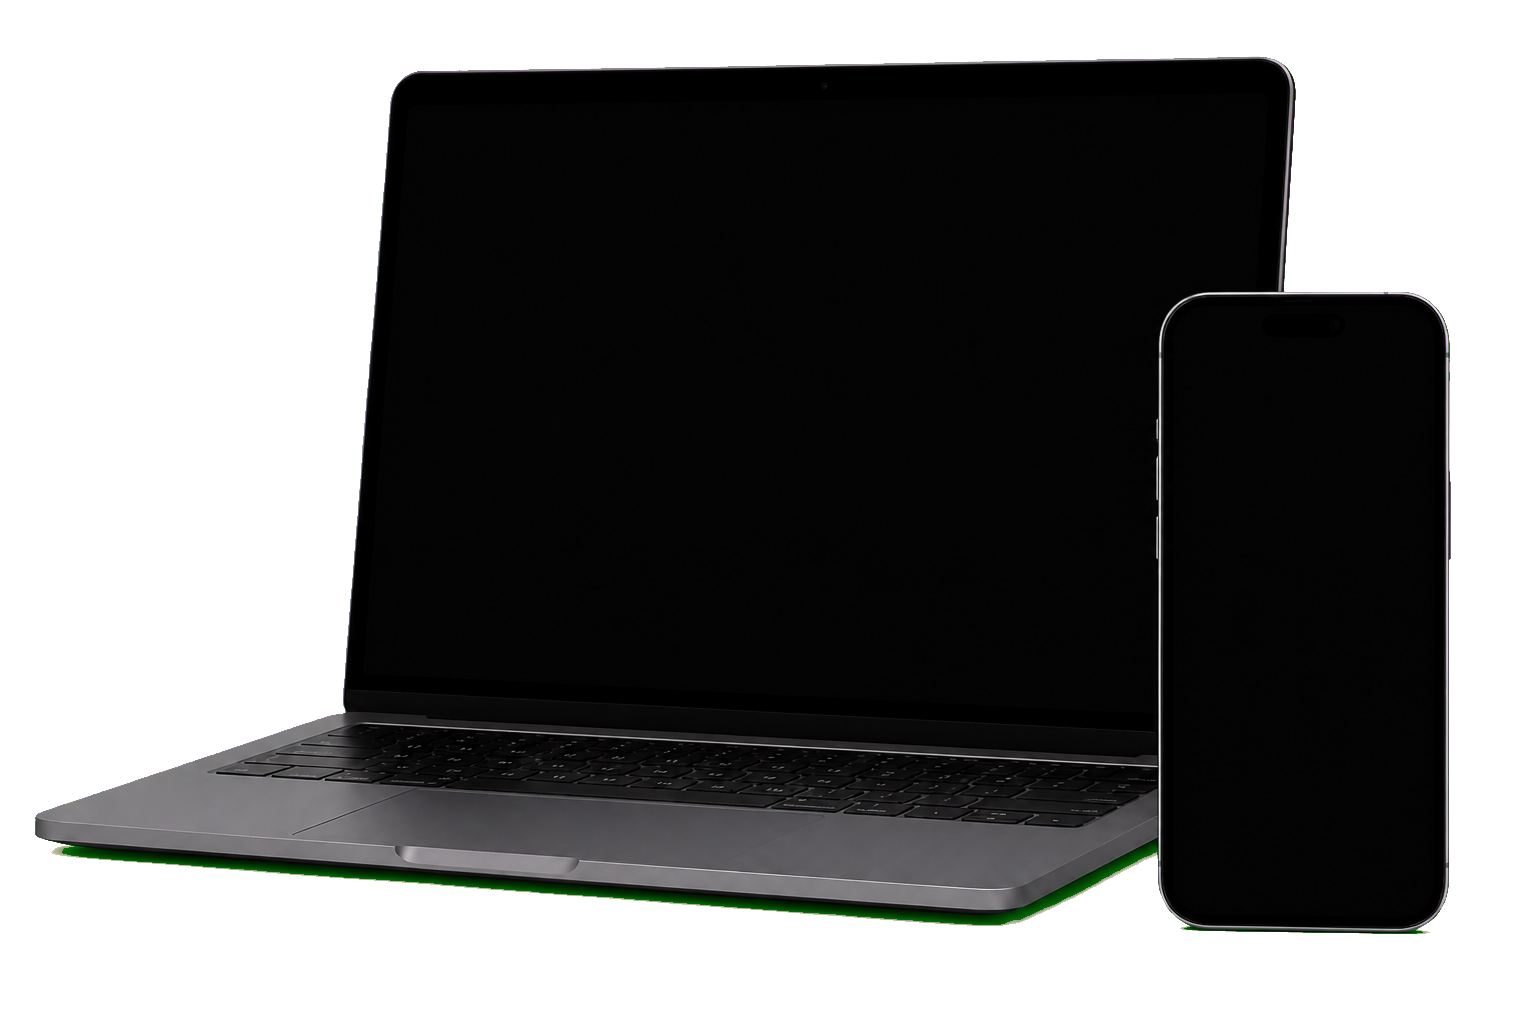
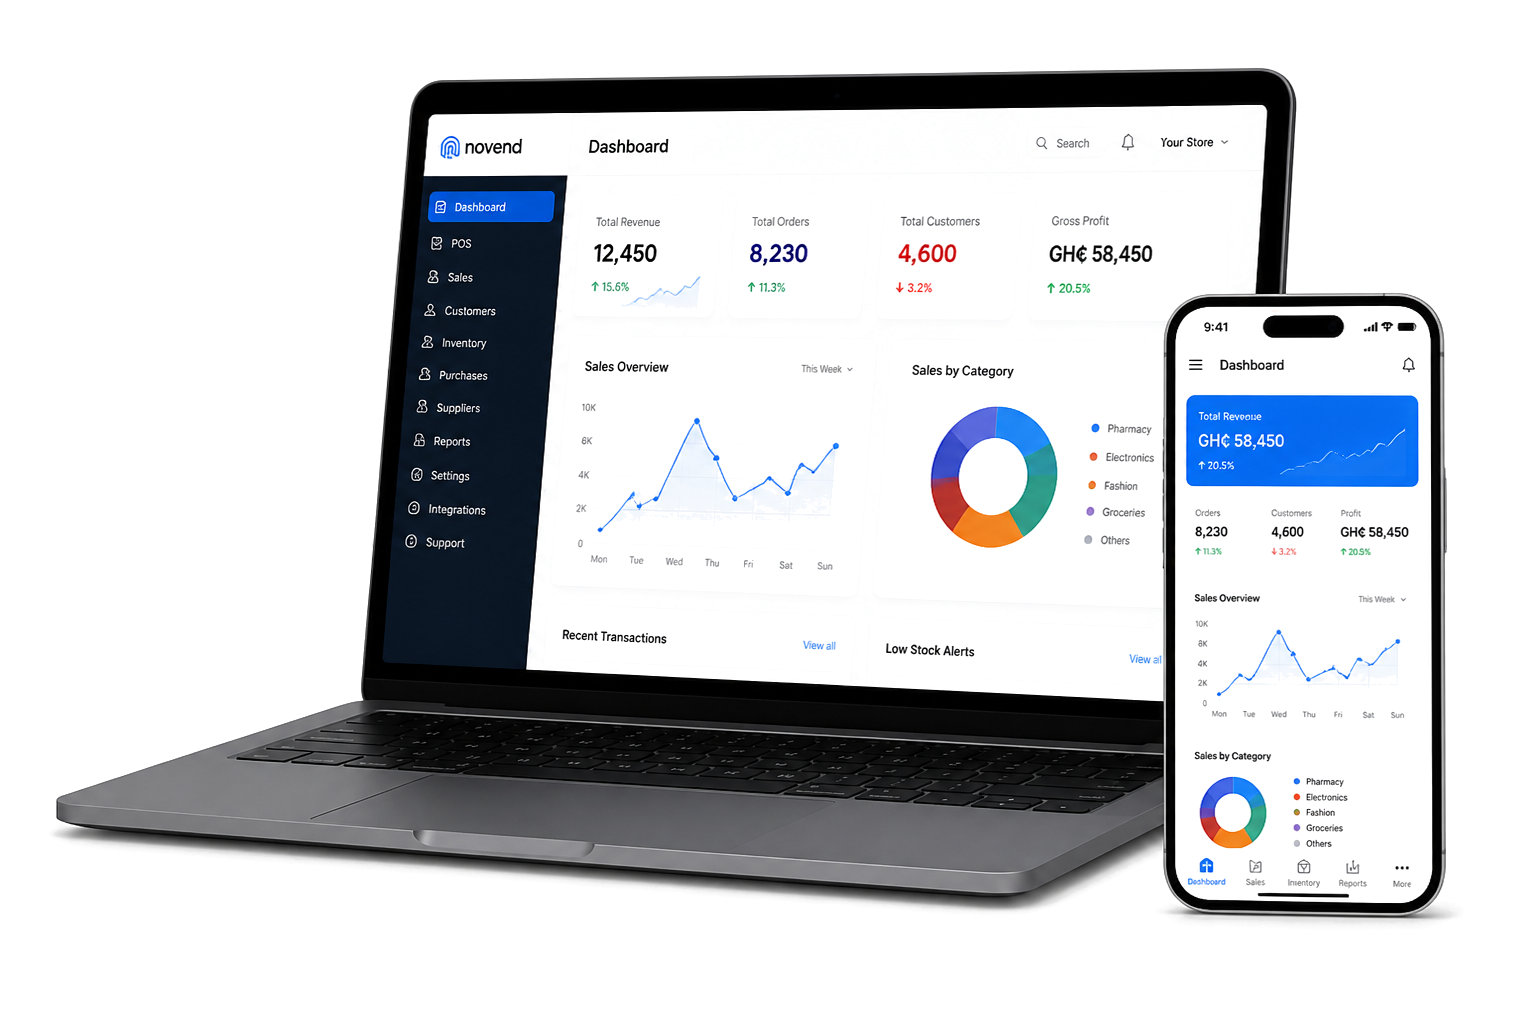
chore: update marketing asset version and refine landing visuals
- Bumped the marketing asset version to ensure browsers refetch updated images.
- Replaced the CTA device image with a filled mockup for improved visual representation.
- Adjusted CSS styles for the landing CTA devices frame, including shadow effects for better aesthetics.

diff --git a/styles/globals.css b/styles/globals.css
@@ -1283,7 +1283,7 @@
     #ffffff;
 }
 
-/* CTA laptop + phone — empty shells (no dashboard composite) */
+/* CTA laptop + phone — filled mockup with transparent plate */
 .landing-cta-devices-frame {
   position: relative;
   width: 100%;
@@ -1295,7 +1295,7 @@
   position: relative;
   z-index: 1;
   display: block;
-  filter: drop-shadow(0 18px 28px rgba(15, 23, 42, 0.14));
+  filter: drop-shadow(0 16px 26px rgba(15, 23, 42, 0.12));
 }
 
 .landing-pos-frame {

diff --git a/constants/branding.ts b/constants/branding.ts
@@ -1,5 +1,5 @@
 /** Bump when replacing files under /public/marketing so Next Image + browsers refetch. */
-const MARKETING_ASSET_VERSION = "20260822c";
+const MARKETING_ASSET_VERSION = "20260822d";
 
 function marketingAsset(path: string): string {
   return `${path}?v=${MARKETING_ASSET_VERSION}`;
